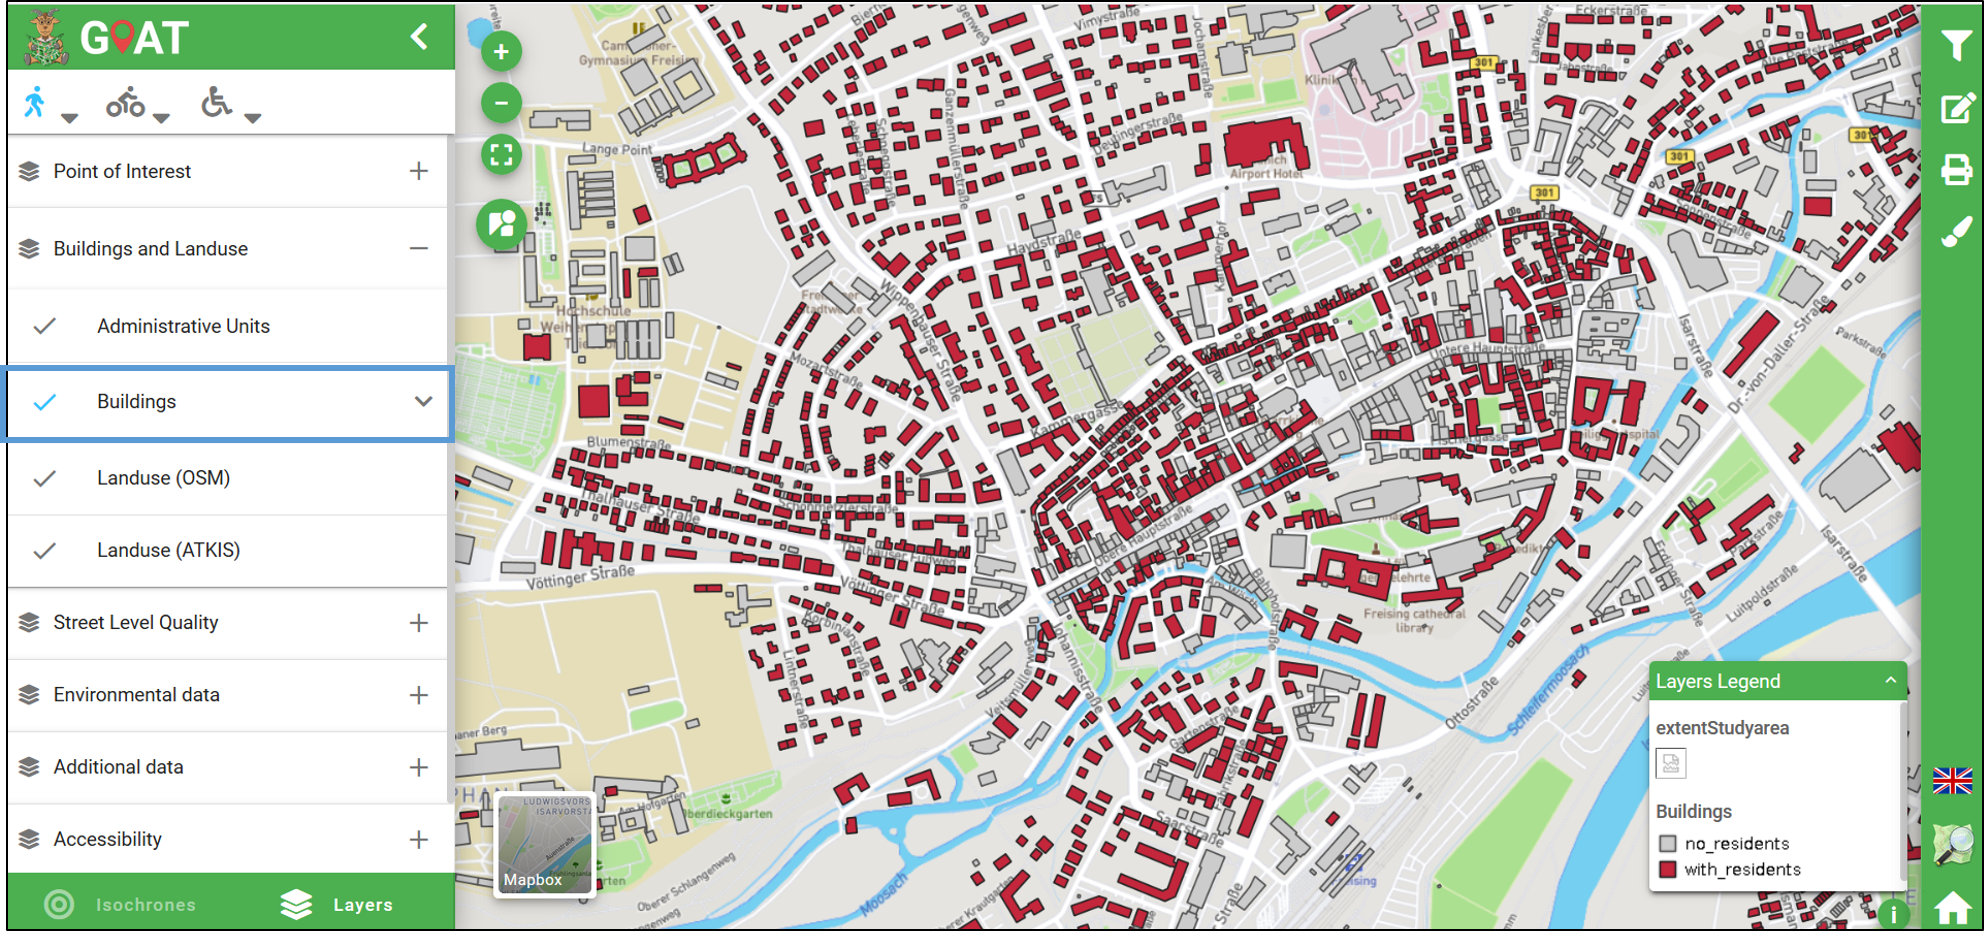
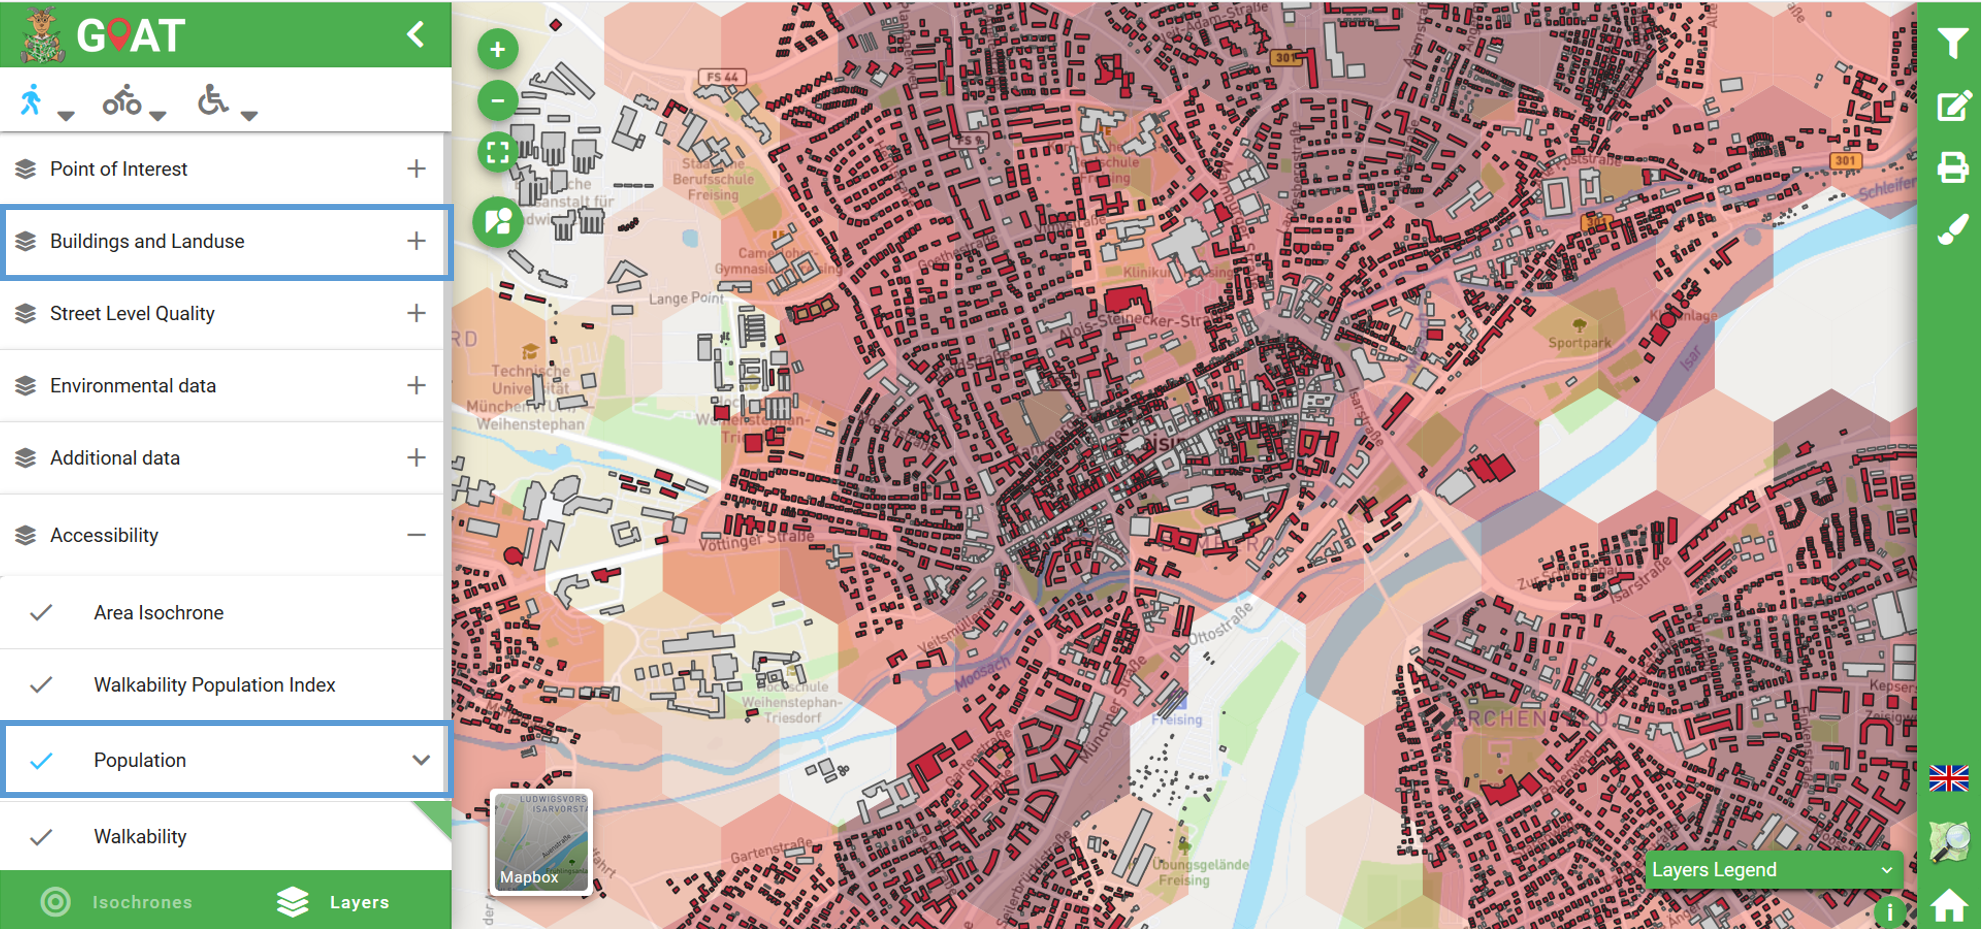
wip buildings editing tutorial

diff --git a/_docs/Scenario_Buildings (DE).md b/_docs/Scenario_Buildings (DE).md
@@ -19,7 +19,7 @@ Die Szenarien Entwicklung zu Gebäuden kann zur Beantwortung verschiedener Planu
 
 
 ###### 1.2 Arbeitsschritte
-1. Blenden Sie den Layer „Gebäude” aus der Kategorie „Gebäude und Flächennutzung” ein. Dieser zeigt alle vorhandenen Gebäude an.  
+1. Blenden Sie den Layer „Gebäude” aus der Kategorie „Gebäude und Flächennutzung” und den Layer „Bevölkerung” aus der Kategorie „Grundkarten Erreichbarkeit” ein. Diese zeigen alle vorhandenen Gebäude (in rot: Gebäude mit Wohnnutzung, in weiß: Gebäude ohne Wohnnutzung) und die Bevölkerungsdichte an (umso dünkler der Hintergrund, umso höher die Bevölkerungsdichte).  
 <img class="img-responsive" src="../../img/Docs/training materials/Scenario_buildings/building_layer.png">
 
 2. Gehen Sie nun in das Fenster zur Szenarienentwicklung und wählen Sie den „Gebäude” Layer.  
@@ -31,15 +31,17 @@ Die Szenarien Entwicklung zu Gebäuden kann zur Beantwortung verschiedener Planu
 4. Um die veränderten Gebäude in die Datenbank zu integrieren, müssen diese über den Button „Hochladen“ hochgeladen werden.  
 <img class="img-responsive" src="../../img/Docs/training materials/Scenario_buildings/upload.png" style="height:300px;">
 
-5. Lassen Sie sich als Thematische Daten die Grundschulen anzeigen.  
+5. ...
+
+6. Lassen Sie sich als Thematische Daten die Grundschulen anzeigen.  
 
 6. Wechseln Sie zum Isochronenberechnugsmodus „Multi“, stellen den Berechnungsmodus auf „Standard und Szenario“ und wählen die Methode „Ortsteil“ aus. Wählen Sie dann in der Karte per Mausklick den Ortsteil, in dem Sie die Nachverdichtung durchgeführt haben.  
 <img class="img-responsive" src="../../img/Docs/training materials/Scenario_buildings/multiisochrones.png" style="height:300px;">
 
-6. Klicken Sie auf „Berechnen“.  
-<img class="img-responsive" src="../../img/Docs/training materials/Multiisochrones/calculate.png" style="height:200px;">
+7. Klicken Sie auf „Berechnen“.  
+<img class="img-responsive" src="../../img/Docs/training materials/Scenario_buildings/calculate.png" style="height:200px;">
 
-
+8. 
 
 
  
